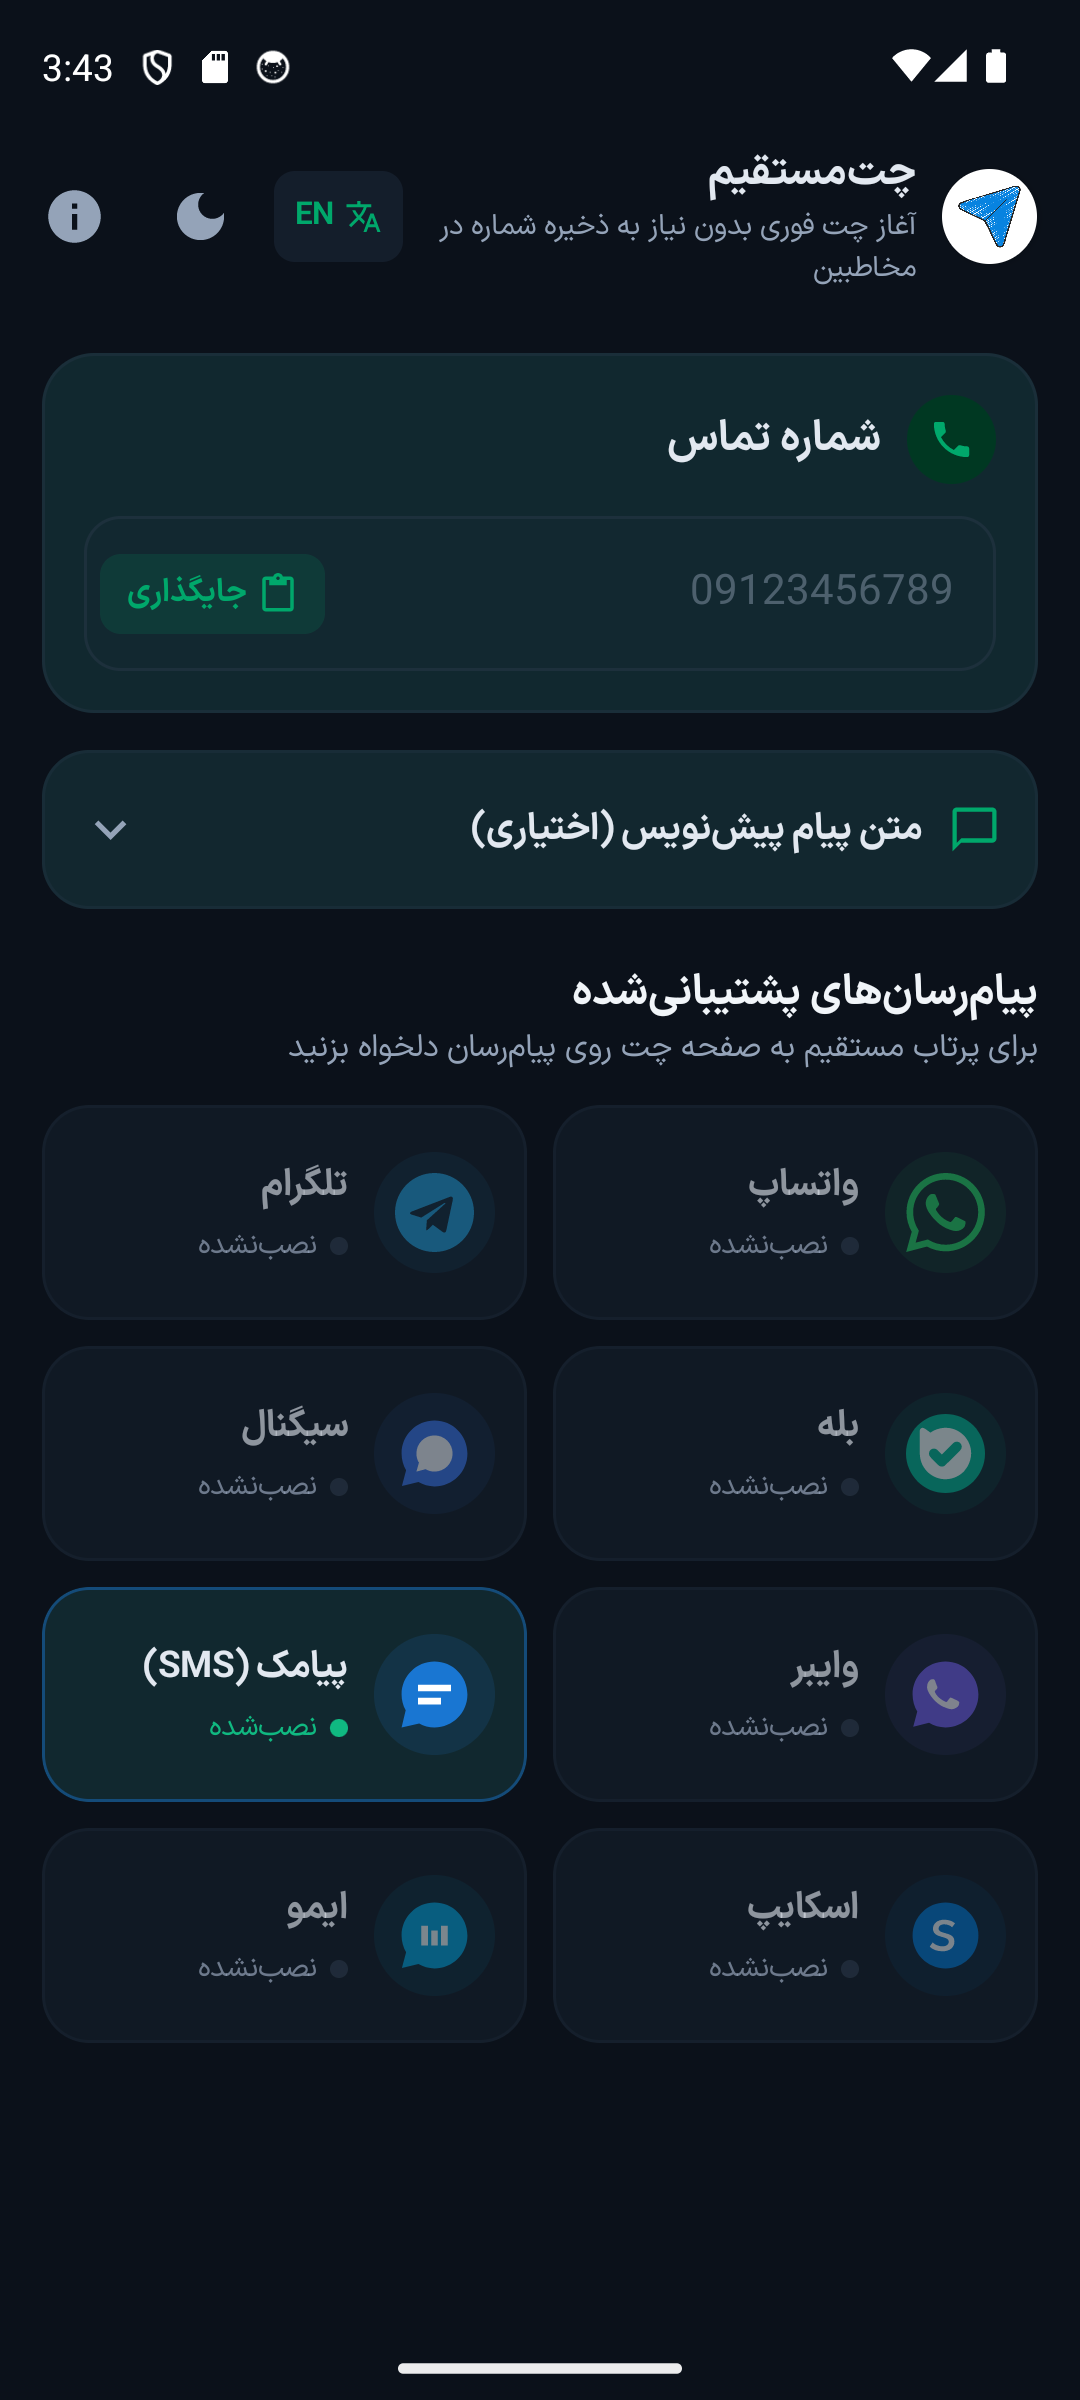
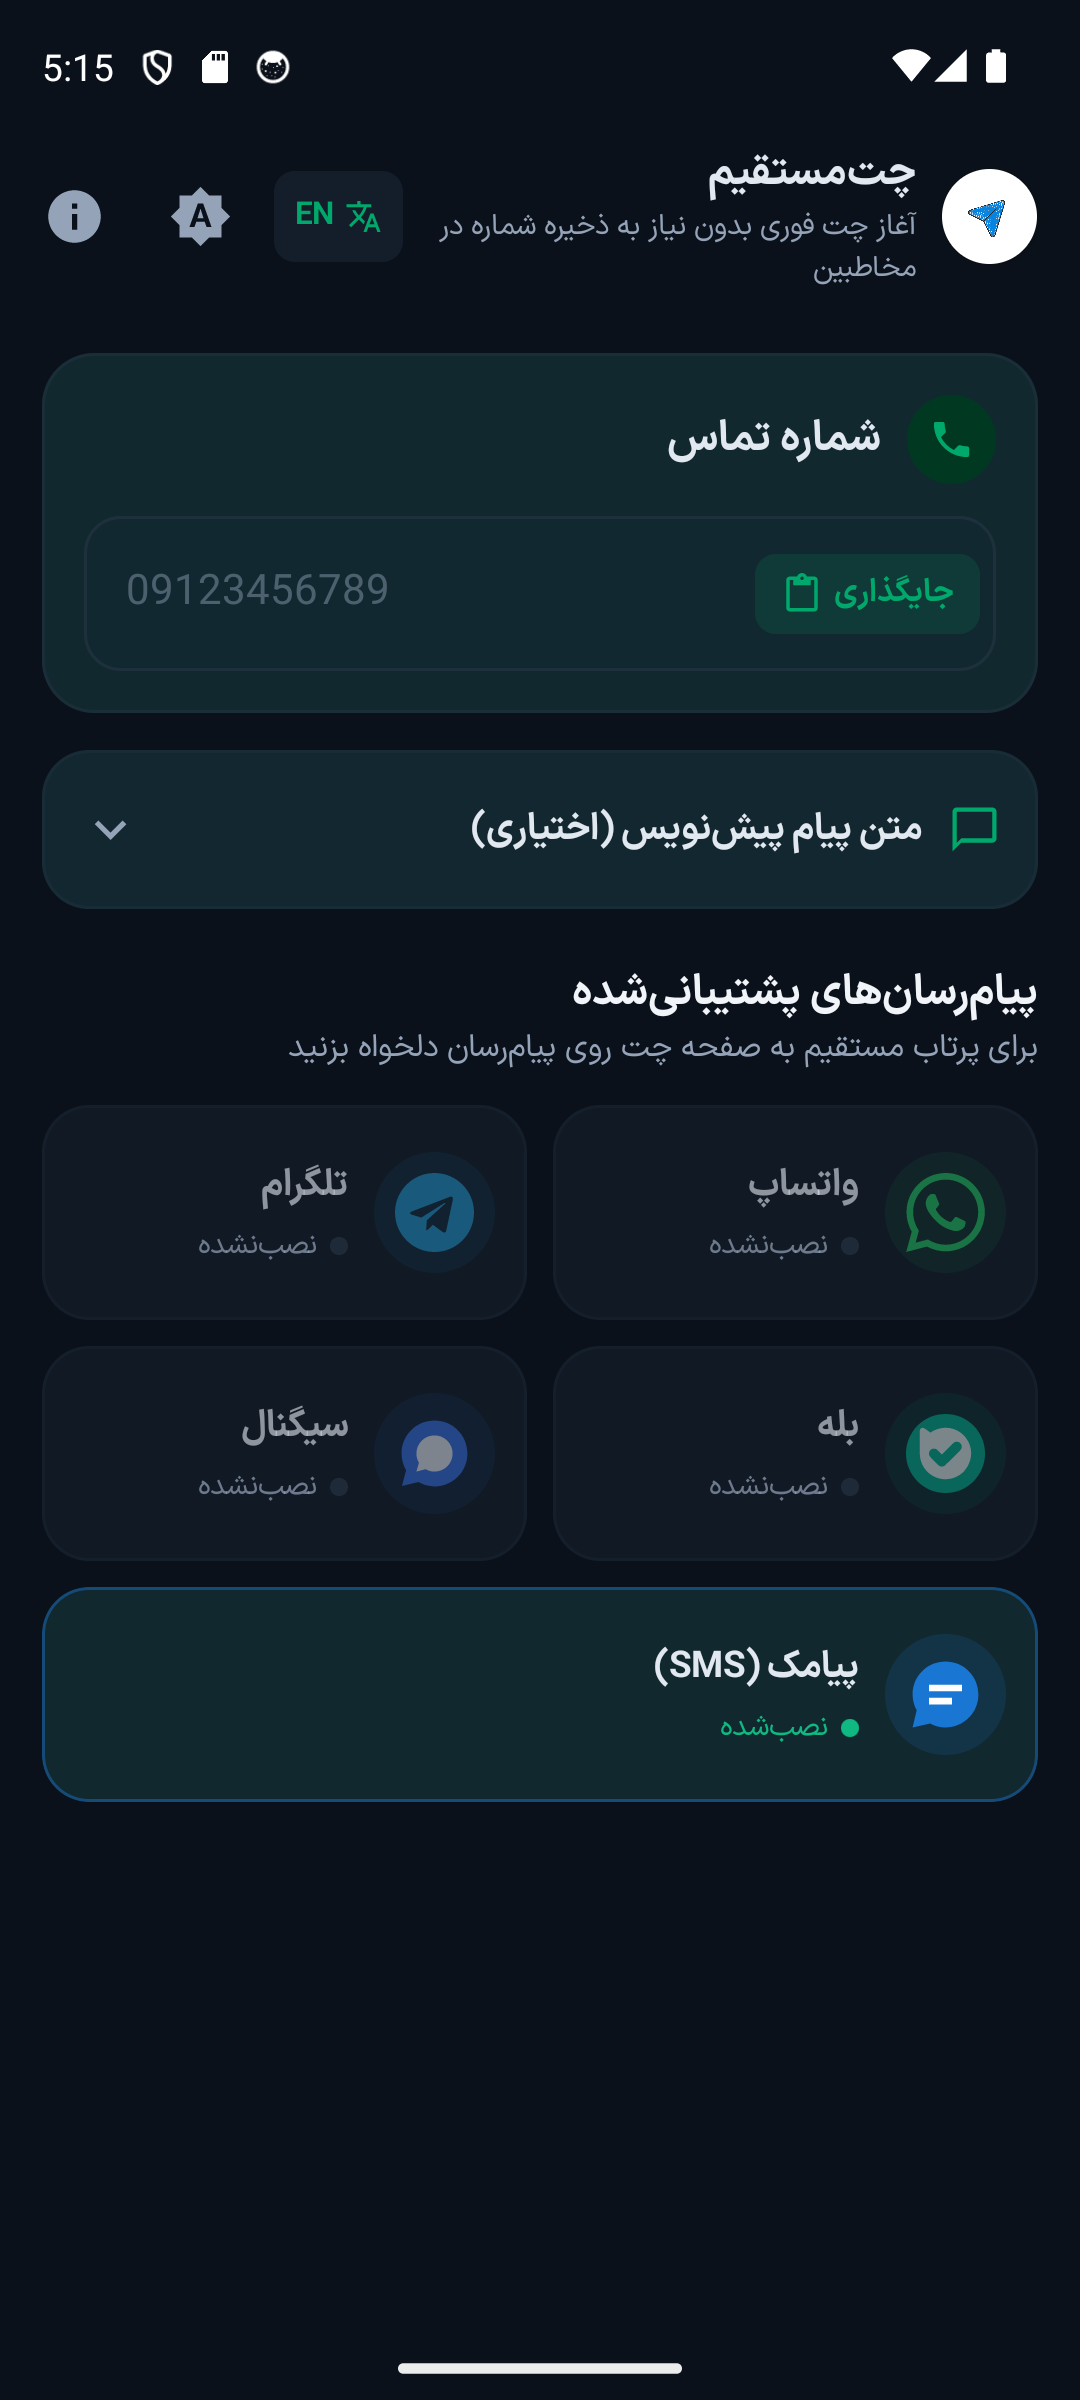
release: v1.0.0 - official production release with refreshed screenshots and release notes

diff --git a/.github/release-notes.md b/.github/release-notes.md
@@ -1,15 +1,27 @@
-## چتمستقیم / DirectChat - نسخه v1.0.2
+## چتمستقیم / DirectChat - نسخه رسمی v1.0.0 (نخستین انتشار عمومی)
 
-نسخه جدید **چتمستقیم** با بهینهسازی عمیق دیپلینکها، اصلاح رفتار پیامرسانها و سادهسازی لیست مسنجرها.
+نخستین نسخه پایدار و رسمی **چتمستقیم (DirectChat)** جهت انتشار در استورهای گوگلپلی، بازار و مایکت.
 
-### تغییرات و بهینهسازیها (What's New in v1.0.2):
-- 🎯 **راهنمای پیشنویس پیام (Prefilled Message Helper):**
-  - درج یادداشت راهنمای اختصاصی همراه با آیکون Info زیر کادر متن پیشنویس مبنی بر پشتیبانی انحصاری توسط واتساپ و پیامک (SMS) به زبانهای فارسی و انگلیسی.
-- ⚡ **حل ریشهای مشکل تلگرام (Direct Contact Chat Fix):**
-  - تغییر پروتکل تلگرام به استاندارد مستقیم `tg://resolve?phone=...` (و وب فالبک `t.me/+...`) به جای ارسال اینتنت فوروارد/اشتراکگذاری (`tg://msg`)، که سبب باز شدن مستقیم چت مخاطب بدون گیر کردن در منوی Forward to میشود.
-- 💬 **بهروزرسانی پروتکل واتساپ به استاندارد رسمی `wa.me`:**
-  - استفاده از الگوی مستقیم `https://wa.me/...` جهت ورود مستقیم به گفتگوی کاربر بدون توقف در صفحات میانی.
-- 📱 **چیدمان ۵تایی مدرن و متقارن:**
-  - حذف برنامههای کمکاربرد (وایبر، اسکایپ، ایمو) و اختصاص کارت عریض و کامل به پیامک سیستم (SMS) به عنوان راهکار ارتباطی فراگیر.
-- 🛡 **امضای دیجیتال معتبر:**
-  - امضا شده با کلید اختصاصی RSA 4096-bit معتبر جهت انتشار در گوگل پلی، بازار و مایکت.
+چتمستقیم ابزاری سریع، مدرن و با تمرکز بر حریم خصوصی است که به شما امکان میدهد بدون نیاز به ذخیره شماره در دفترچه مخاطبان گوشی، مستقیماً وارد صفحه گفتگوی پیامرسان دلخواه خود شوید.
+
+---
+
+### ویژگیها و قابلیتهای نسخه ۱.۰.۰ (Features in v1.0.0):
+- 🚀 **آغاز فوری چت بدون ذخیره مخاطب:**
+  - ارتباط مستقیم با شمارههای موقت و ناشناس بدون شلوغ کردن لیست مخاطبین و حفظ ۱۰۰٪ حریم خصوصی.
+- 💬 **پشتیبانی از ۵ پیامرسان کاربردی و فعال:**
+  - **واتساپ (WhatsApp):** پشتیبانی تجمیعی از واتساپ و واتساپ بیزینس بر پایه پروتکل استاندارد `wa.me`.
+  - **تلگرام (Telegram):** پشتیبانی تجمیعی از نسخه رسمی گوگلپلی، نسخه مستقیم Direct APK و پلاس مسنجر با اتصال مستقیم به صفحه چت مخاطب (`tg://resolve`).
+  - **بله (Bale):** اتصال رسمی به پیامرسان مالی/اجتماعی بله بر پایه شماره تلفن همراه.
+  - **سیگنال (Signal):** امنترین پیامرسان رمزگذاریشده جهان با پروتکل رسمی شماره همراه.
+  - **پیامک سیستم (SMS / Messages):** راهحل فراگیر و آفلاین قابل اجرا روی ۱۰۰٪ دستگاههای اندرویدی.
+- 📝 **پیشنویس پیام متنی (Pre-filled Message):**
+  - امکان تایپ متن سلام یا استعلام پیش از ورود به پیامرسان (پشتیبانیشده در واتساپ و پیامک).
+- 📋 **جایگذاری خودکار و هوشمند (Smart Paste):**
+  - تشخیص خودکار شماره کپیشده در کلیپبورد و دکمه تکلمسی جایگذاری و پاکسازی شماره.
+- 🇮🇷 **تایپوگرافی اصیل و چشمنواز:**
+  - ادغام فونت مدرن خانواده **IRANSansX Eco** برای زبان فارسی و پشتیبانی کامل از چینش دوطرفه (RTL / LTR).
+- 🌓 **طراحی مدرن متریال ۳ (Material You):**
+  - پشتیبانی هوشمند و بینقص از تم تیره (Dark Mode) و تم روشن (Light Mode) منطبق بر رنگهای سیستمی.
+- 🛡 **امضای امن و معتبر:**
+  - امضا شده با کلید اختصاصی RSA 4096-bit معتبر سازگار با کلیه مارکتهای اندرویدی.
